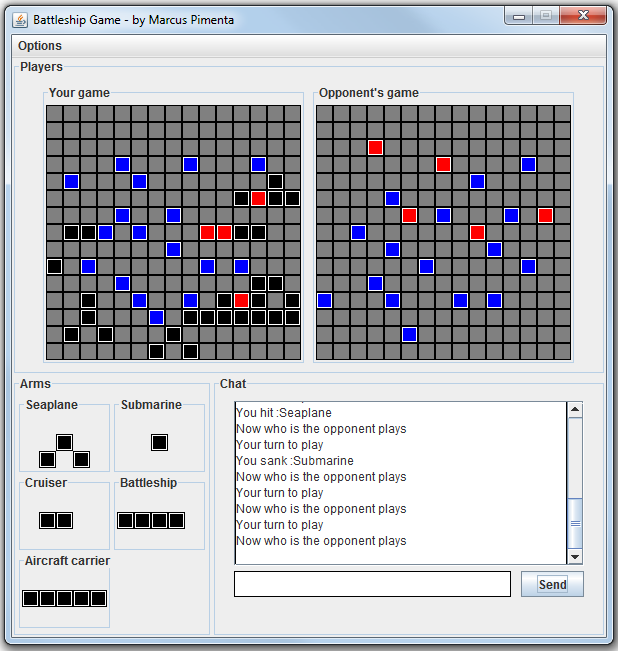
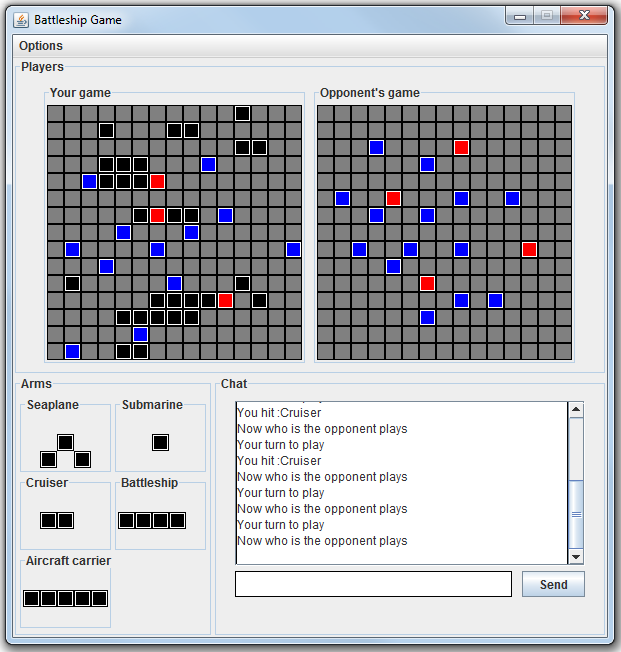
Change name button and update imagens

Changed region(s): [[0.0, 0.0, 1.0, 1.0]]

diff --git a/Battleship/src/com/battleship/view/WindowBuilder.java b/Battleship/src/com/battleship/view/WindowBuilder.java
@@ -122,7 +122,7 @@ public class WindowBuilder extends JFrame implements ActionListener{
 		menuClient = new JMenuItem("Start client");
 		menuClient.addActionListener(this);
 		
-		menuQuitGame = new JMenuItem("Abandoning game");
+		menuQuitGame = new JMenuItem("Quit game");
 		menuQuitGame.addActionListener(this);
 		
 		menuRepaint = new JMenuItem("New board");
@@ -149,7 +149,7 @@ public class WindowBuilder extends JFrame implements ActionListener{
 		add(panelChat, BorderLayout.CENTER);
 		add(panel, BorderLayout.WEST);
 		setSize(600, 630);
-		setTitle("Battleship Game - by Marcus Pimenta");
+		setTitle("Battleship Game");
 		
 		setBackground(Color.BLACK);
 		setDefaultCloseOperation(JFrame.EXIT_ON_CLOSE);
